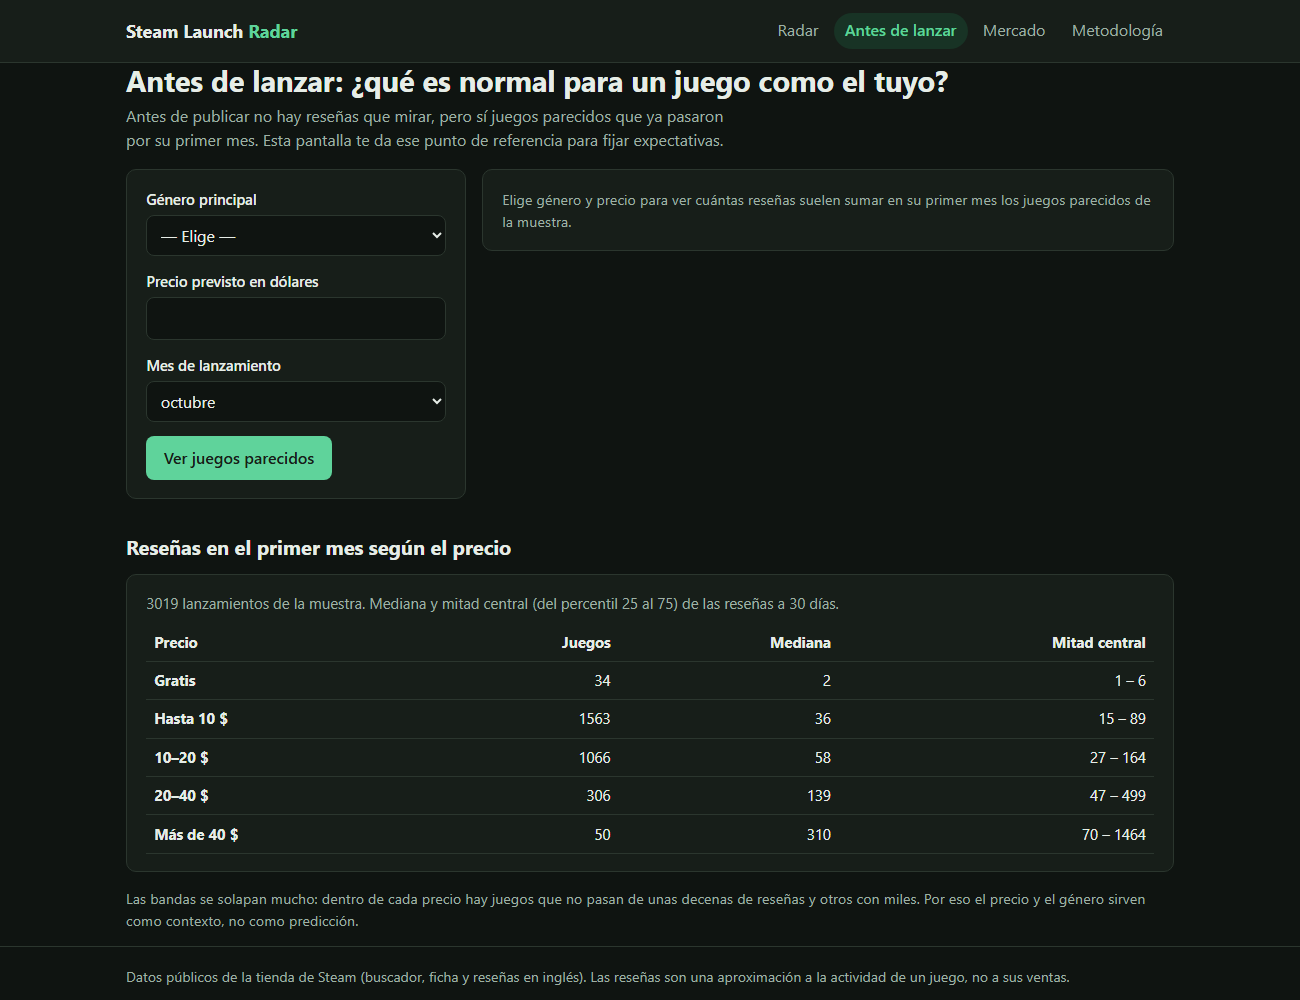
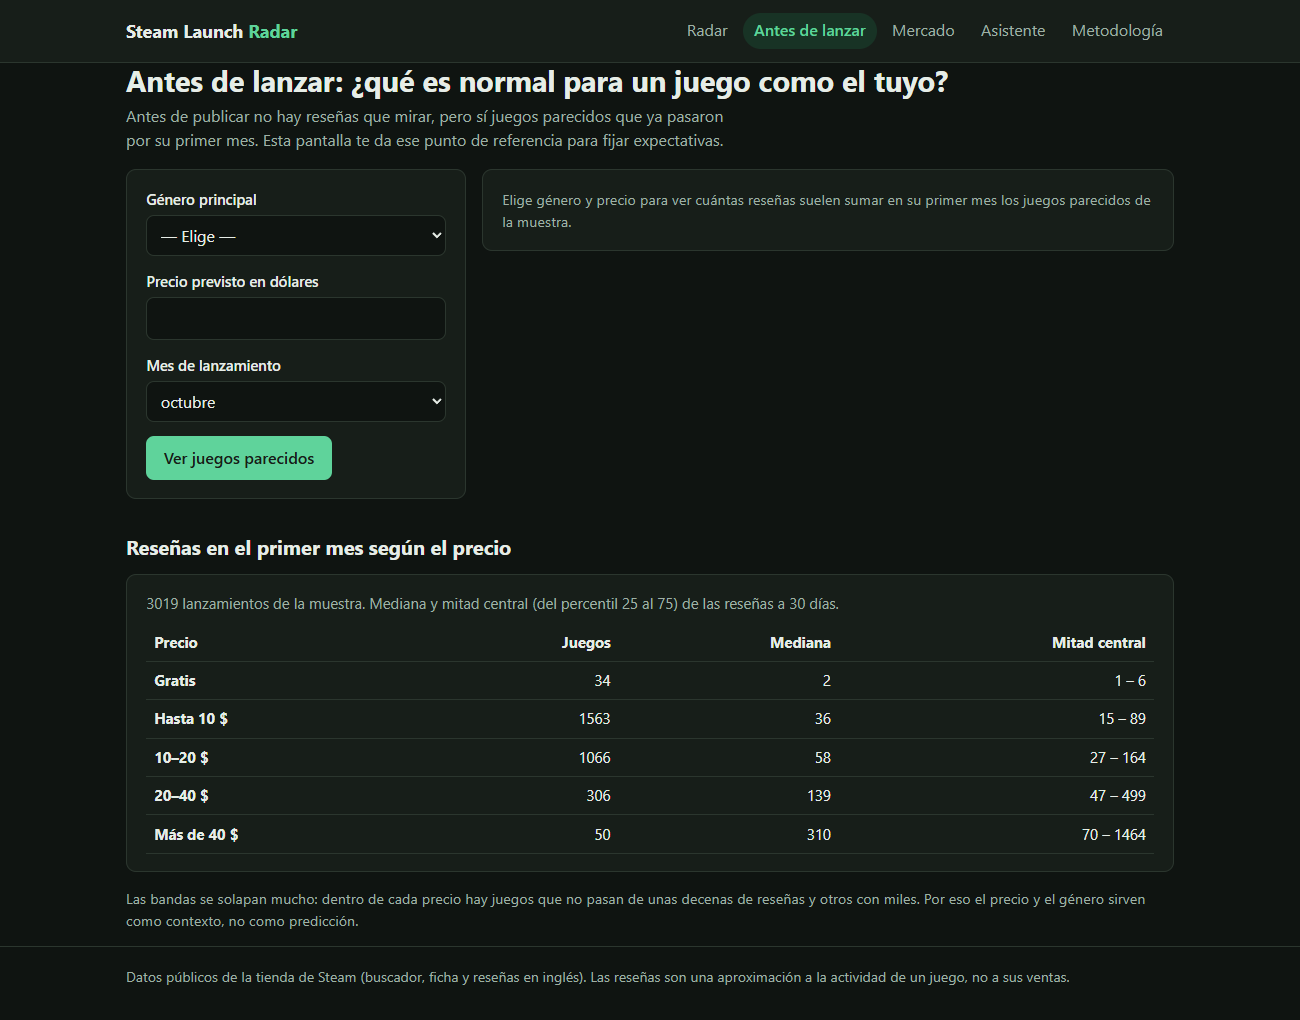
docs: README con la evaluación del asistente, early access y capturas actualizadas

diff --git a/README.md b/README.md
@@ -72,8 +72,8 @@ con los datos reales; la lógica vive en `src/radar/preparacion.py`.
 
 - Cada reseña se sitúa en su día relativo a la fecha oficial de lanzamiento.
 - Se excluyen 689 juegos sin ninguna reseña en inglés en su primer mes, 357 con más del
-  5 % de sus reseñas antes de la fecha oficial (salieron de acceso anticipado: su día 0
-  no es un estreno) y 4 sin precio en dólares.
+  5 % de sus reseñas antes de la fecha oficial (salieron de acceso anticipado, el
+  _early access_ de Steam: su día 0 no es un estreno) y 4 sin precio en dólares.
 - El volumen es muy asimétrico (mediana de 48 reseñas a 30 días, media de 220): se
   trabaja en log(1 + reseñas). Los juegos más grandes son lanzamientos reales y no se
   recortan.
@@ -139,32 +139,42 @@ estimación queda entre un 17 % por debajo y un 21 % por encima del valor real.
   notebooks, cortados por secciones, y el resto son una ficha por juego descargado con
   sus cifras (precio, géneros, estudio, reseñas los días 3, 7, 14 y 30, y por qué se
   excluyó si es el caso).
-- **Recuperación híbrida:** BM25 sobre las palabras y similitud de coseno sobre
-  embeddings de `embeddinggemma` (Ollama), combinados con Reciprocal Rank Fusion. Los
-  vectores se guardan normalizados y cuantizados a int8, así que el índice entero pesa
-  6 MB y no hace falta una base de datos vectorial.
-- **Generación:** un modelo servido con Ollama (`qwen3.5` en local) recibe los seis
-  fragmentos mejor situados con la instrucción de responder solo con ellos y citar cada
-  dato con su número.
+- **Recuperación:** BM25 sobre las palabras y similitud de coseno sobre embeddings
+  de `embeddinggemma` (Ollama), combinados con Reciprocal Rank Fusion. Los vectores
+  se guardan normalizados y cuantizados a int8, así que el índice entero pesa 6 MB y
+  no hace falta una base de datos vectorial. En la búsqueda híbrida las palabras se
+  reducen a una raíz de 6 letras («opiniones» y «opinión» cuentan igual). Entre los
+  seis fragmentos que recibe el modelo entran como mucho dos fichas de juegos, para
+  que no desplacen a la documentación.
+- **Generación:** un modelo servido con Ollama (`qwen3.5` en local, `gpt-oss:120b`
+  de Ollama Cloud en Vercel) recibe esos fragmentos con la instrucción de responder
+  solo con ellos y citar cada dato con su número.
 - **Evaluación** (`npm run evaluar-asistente`, detalle en
-  [`docs/evaluacion_asistente.md`](docs/evaluacion_asistente.md)): 22 preguntas de
-  referencia con la respuesta conocida, 3 de ellas ajenas al proyecto.
+  [`docs/evaluacion_asistente.md`](docs/evaluacion_asistente.md)): 27 preguntas de
+  referencia, cada una con las secciones que contienen la respuesta. 19 son
+  directas, 5 están reformuladas sin las palabras de la documentación («¿cuánto se
+  equivoca la herramienta una semana después del estreno?») y 3 son ajenas al
+  proyecto.
 
-| Búsqueda               | Acierto@1 | Acierto@6 | MRR  |
-| ---------------------- | --------- | --------- | ---- |
-| Palabras (BM25)        | 78 %      | 100 %     | 0,89 |
-| Embeddings             | 61 %      | 94 %      | 0,73 |
-| Híbrida (la de la app) | 83 %      | 100 %     | 0,89 |
+| Búsqueda                  | Directas: fuente entre las 6 | Reformuladas: fuente entre las 6 | Respuestas correctas (directas · reformuladas) |
+| ------------------------- | ---------------------------- | -------------------------------- | ---------------------------------------------- |
+| Híbrida (local)           | 100 %                        | 80 %                             | 19/19 · 3/5                                    |
+| Solo palabras (en Vercel) | 100 %                        | 20 %                             | 18/19 · 2/5                                    |
 
-Con la búsqueda híbrida, las 19 respuestas sobre el proyecto contienen el dato
-esperado y citan su fuente, y las 3 preguntas ajenas se rechazan.
+En los dos modos todas las respuestas citan su fuente y las 3 preguntas ajenas se
+rechazan, con 1-2 segundos por respuesta.
 
-- **Limitaciones:** en estas preguntas BM25 solo ya encuentra la fuente, porque casi
-  todas nombran el juego o el término exacto; los embeddings se mantienen para las
-  preguntas formuladas con otras palabras, que este conjunto apenas cubre. La
-  comprobación de las respuestas busca la cifra esperada en el texto, así que no mide
-  la redacción. Sin el modelo de embeddings (por ejemplo en Ollama Cloud) el asistente
-  recupera solo con BM25.
+- **Qué se aprendió midiendo:** reducir las palabras a su raíz mejora la búsqueda
+  híbrida pero empeora la de solo palabras (crea coincidencias falsas que los
+  embeddings ya no compensan), así que cada modo usa lo que le funciona. Sin el cupo
+  de fichas, una pregunta sobre _early access_ se llenaba de juegos con ese género.
+- **Limitaciones:** las preguntas reformuladas son las difíciles: sin embeddings la
+  búsqueda solo encuentra la fuente en 1 de 5, y Ollama Cloud no ofrece embeddings,
+  así que la versión publicada busca solo por palabras. Las decisiones de la
+  búsqueda se tomaron con este mismo conjunto de 27 preguntas, que es pequeño. La
+  comprobación de las respuestas busca la cifra o el término esperado, así que una
+  respuesta correcta redactada de otra forma cuenta como fallo; por eso el informe
+  guarda cada respuesta.
 
 ## 5. La aplicación
 
@@ -174,16 +184,16 @@ esperado y citan su fuente, y las 3 preguntas ajenas se rechazan.
 | **Antes de lanzar** | Reseñas a 30 días de juegos del mismo género y precio (mediana y mitad central).                                                                                                                                                                                                                                                                                                                                                                                  |
 | **Mercado**         | Indicadores de la muestra: ritmo del primer mes, géneros, precio, lanzamientos por mes y exclusiones.                                                                                                                                                                                                                                                                                                                                                             |
 | **Asistente**       | Chat con RAG: responde con la documentación y las fichas de los juegos, cita cada dato y enseña las fuentes recuperadas aunque el modelo de lenguaje no responda.                                                                                                                                                                                                                                                                                                 |
-| **Metodología**     | Datos, comparación de candidatos, métricas de test y limitaciones, leídas de los mismos JSON que usa el modelo.                                                                                                                                                                                                                                                                                                                                                   |
+| **Metodología**     | Datos, comparación de candidatos, métricas de test y limitaciones, leídas de los mismos JSON que usa el modelo, y un resumen del asistente y del panel.                                                                                                                                                                                                                                                                                                           |
 
 API del servidor:
 
-| Ruta                        | Respuesta                                                                                                                                                                                        |
-| --------------------------- | ------------------------------------------------------------------------------------------------------------------------------------------------------------------------------------------------ |
-| `POST /api/radar`           | Lectura del radar. Cuerpo: `dia` (3, 7 o 14), `resenas` (entero), `pct_positivas` (fracción de 0 a 1, opcional), `precio_usd` y `genero`.                                                        |
-| `POST /api/previo`          | Referencia antes de lanzar. Cuerpo: `precio_usd`, `mes_lanzamiento` (1-12) y `genero`.                                                                                                           |
-| `GET /api/ejemplos/{appid}` | Ficha y reseñas diarias reales de un lanzamiento del test.                                                                                                                                       |
-| `POST /api/asistente`       | Respuesta del asistente en NDJSON: una línea con las fuentes, los trozos de texto según se generan y una de cierre o error. Cuerpo: `mensajes` (lista de `{rol, texto}`, el último del usuario). |
+| Ruta                        | Respuesta                                                                                                                                                                                                                                              |
+| --------------------------- | ------------------------------------------------------------------------------------------------------------------------------------------------------------------------------------------------------------------------------------------------------ |
+| `POST /api/radar`           | Lectura del radar. Cuerpo: `dia` (3, 7 o 14), `resenas` (entero), `pct_positivas` (fracción de 0 a 1, opcional), `precio_usd` y `genero`.                                                                                                              |
+| `POST /api/previo`          | Referencia antes de lanzar. Cuerpo: `precio_usd`, `mes_lanzamiento` (1-12) y `genero`.                                                                                                                                                                 |
+| `GET /api/ejemplos/{appid}` | Ficha y reseñas diarias reales de un lanzamiento del test.                                                                                                                                                                                             |
+| `POST /api/asistente`       | Respuesta del asistente en NDJSON: una línea con las fuentes, los trozos de texto según se generan y una de cierre o error. Cuerpo: `mensajes` (lista de `{rol, texto}`, el último del usuario). Como mucho 20 preguntas por IP cada 10 minutos (429). |
 
 Las entradas se validan en el formulario y otra vez en el servidor, con mensajes que
 nombran el campo erróneo (400). Si faltan los datos exportados, las páginas y la API
@@ -210,9 +220,11 @@ llegan datos nuevos; el parámetro `OrigenDatos` admite también una carpeta loc
 test comprueba que el factor de error y la cobertura del panel coinciden con los de la
 app.
 
-| Antes de lanzar                                       | Mercado                               | Móvil                                                                             |
-| ----------------------------------------------------- | ------------------------------------- | --------------------------------------------------------------------------------- |
-| ![Antes de lanzar](docs/capturas/antes-de-lanzar.png) | ![Mercado](docs/capturas/mercado.png) | <img src="docs/capturas/movil.png" alt="Radar en un móvil de 375 px" width="180"> |
+| Radar antes de la primera lectura                     | Asistente                                 | Móvil                                                                             |
+| ----------------------------------------------------- | ----------------------------------------- | --------------------------------------------------------------------------------- |
+| ![Portada del radar](docs/capturas/portada.png)       | ![Asistente](docs/capturas/asistente.png) | <img src="docs/capturas/movil.png" alt="Radar en un móvil de 375 px" width="180"> |
+| **Antes de lanzar**                                   | **Mercado**                               | **Metodología**                                                                   |
+| ![Antes de lanzar](docs/capturas/antes-de-lanzar.png) | ![Mercado](docs/capturas/mercado.png)     | ![Metodología](docs/capturas/metodologia.png)                                     |
 
 ## 6. Arquitectura y stack
 
@@ -417,9 +429,10 @@ steam-launch-radar/
 - **El sesgo de selección no se ve en las métricas.** Exigir 50 reseñas el día de la
   descarga favorece a los lanzamientos recientes más grandes. Afecta poco al radar, que
   trabaja con proporciones, pero descarta el mes de lanzamiento como variable previa.
-- **Medir la recuperación antes de complicarla.** La búsqueda híbrida se eligió por
-  robustez, pero la evaluación muestra que en estas preguntas BM25 solo ya encuentra la
-  fuente. Por eso el asistente no se rompe sin embeddings: baja a BM25 y lo dice.
+- **Medir la recuperación antes de complicarla.** Con preguntas directas BM25 basta;
+  con preguntas reformuladas los embeddings pasan de encontrar la fuente en 1 de 5 a
+  4 de 5. Por eso el asistente combina las dos búsquedas cuando puede y, cuando no
+  hay embeddings, baja a BM25 y lo dice en cada respuesta.
 - **Fichas generadas, no texto libre.** Cada juego se describe con una plantilla a
   partir de las tablas procesadas, así que el asistente no puede citar una cifra que no
   esté en los datos del radar.
@@ -427,7 +440,10 @@ steam-launch-radar/
   los CSV desde GitHub: no hay rutas locales en el proyecto y la actualización mensual
   lo deja al día sin tocar Power BI.
 
-## 10. Posibles extensiones
+## 10. Qué mejoraría con más tiempo
+
+Lo que queda fuera no cabía en el plazo del proyecto o necesita datos que todavía no
+existen:
 
 - **Reseñas en todos los idiomas** con una clave de la Steam Web API, para incluir los
   juegos con público no anglófono que hoy se excluyen por no recibir reseñas en inglés.
@@ -438,10 +454,16 @@ steam-launch-radar/
   página de la tienda, para afinar la lectura del día 3, la más útil y la menos precisa.
 - **Alertas:** seguir un juego por su `appid` y avisar al estudio cuando su lectura
   diaria cambie de veredicto.
+- **Búsqueda híbrida también en la versión publicada,** con un servicio de embeddings
+  en la nube, para que las preguntas reformuladas funcionen igual que en local.
+- **Evaluar el asistente con preguntas reales** de quienes usen la app, en lugar de
+  un conjunto escrito a mano, y medir también la calidad de la redacción.
 
 ## Convención de commits
 
-El historial sigue [Conventional Commits](https://www.conventionalcommits.org/es/):
+Desde que el proyecto tiene CI y tests, los commits siguen
+[Conventional Commits](https://www.conventionalcommits.org/es/) (los primeros, de la
+construcción inicial, son frases descriptivas):
 `tipo(ámbito): descripción` en imperativo o nominal, con los tipos `feat`, `fix`,
 `refactor`, `test`, `docs`, `ci` y `chore`, y ámbitos como `ingesta`, `modelo`, `app`,
 `datos` o `notebooks`. Ejemplo: `fix(modelo): estadístico de orden exacto en el
